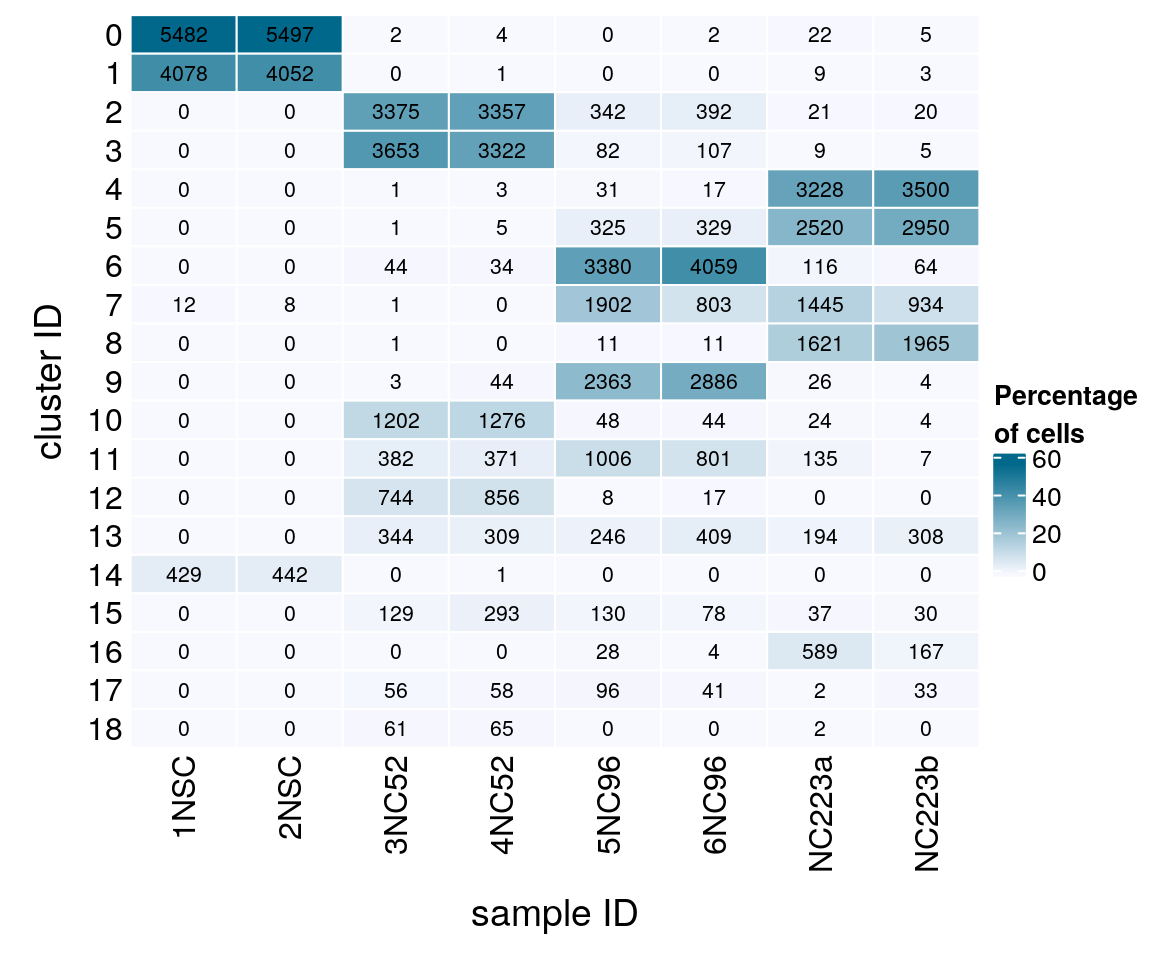
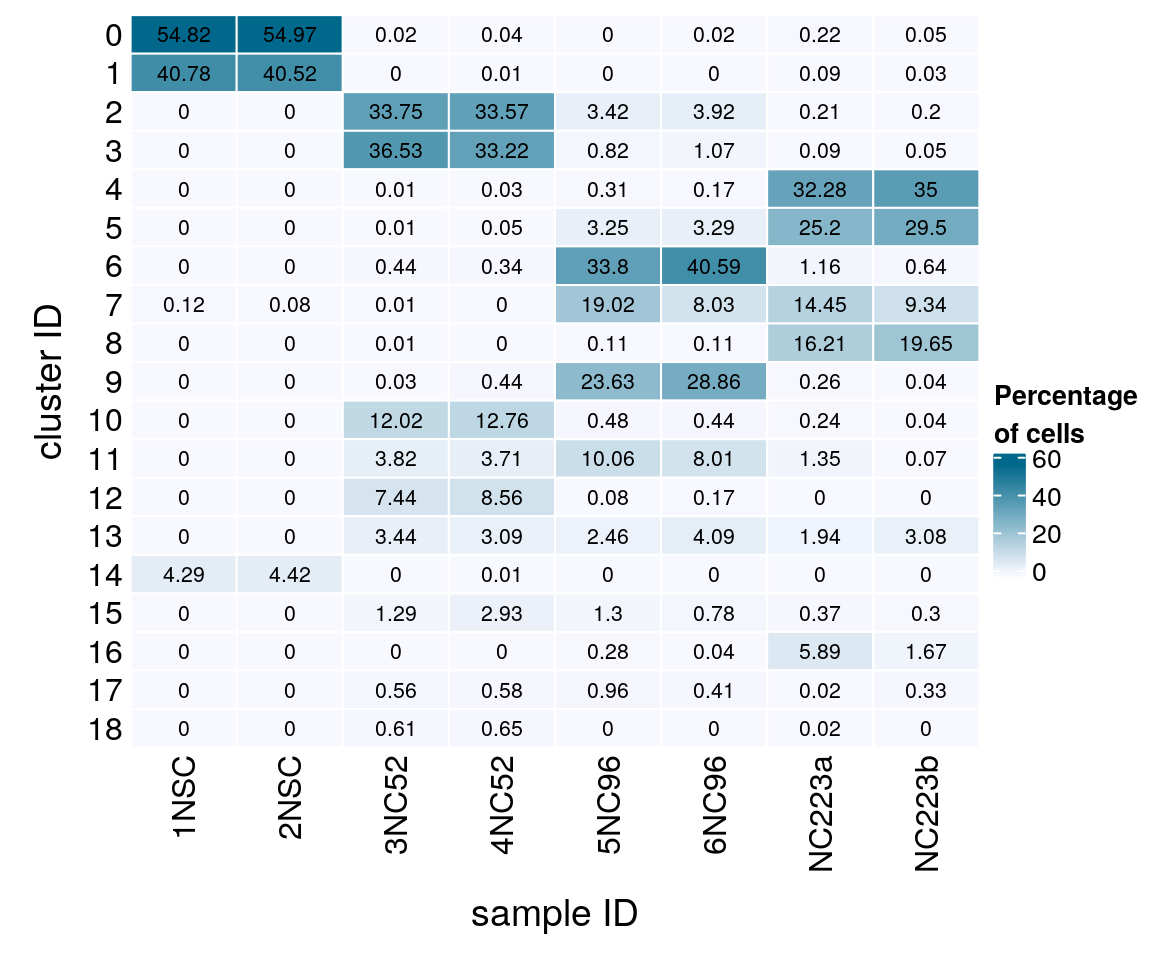
Build site.

diff --git a/docs/07-cluster-analysis-all-timepoints.html b/docs/07-cluster-analysis-all-timepoints.html
@@ -504,16 +504,16 @@ This reproducible <a href="http://rmarkdown.rstudio.com">R Markdown</a> analysis
 <div class="panel panel-default">
 <div class="panel-heading">
 <p class="panel-title">
-<a data-toggle="collapse" data-parent="#workflowr-checks" href="#strongRepositoryversionstrongahrefhttpsgithubcomkhembachneuralscRNAseqtree3c93c4e54e275e91eb92c77445deae7a80ebb553targetblank3c93c4ea"> <span class="glyphicon glyphicon-ok text-success" aria-hidden="true"></span> <strong>Repository version:</strong> <a href="https://github.com/khembach/neural_scRNAseq/tree/3c93c4e54e275e91eb92c77445deae7a80ebb553" target="_blank">3c93c4e</a> </a>
+<a data-toggle="collapse" data-parent="#workflowr-checks" href="#strongRepositoryversionstrongahrefhttpsgithubcomkhembachneuralscRNAseqtree000bc40ac2a53dc1f88a2e3cd525836c2a7a305dtargetblank000bc40a"> <span class="glyphicon glyphicon-ok text-success" aria-hidden="true"></span> <strong>Repository version:</strong> <a href="https://github.com/khembach/neural_scRNAseq/tree/000bc40ac2a53dc1f88a2e3cd525836c2a7a305d" target="_blank">000bc40</a> </a>
 </p>
 </div>
[2 lines of base64/hex data omitted]
 <div class="panel-body">
 <p>
 Great! You are using Git for version control. Tracking code development and connecting the code version to the results is critical for reproducibility.
 </p>
 <p>
-The results in this page were generated with repository version <a href="https://github.com/khembach/neural_scRNAseq/tree/3c93c4e54e275e91eb92c77445deae7a80ebb553" target="_blank">3c93c4e</a>. See the <em>Past versions</em> tab to see a history of the changes made to the R Markdown and HTML files.
+The results in this page were generated with repository version <a href="https://github.com/khembach/neural_scRNAseq/tree/000bc40ac2a53dc1f88a2e3cd525836c2a7a305d" target="_blank">000bc40</a>. See the <em>Past versions</em> tab to see a history of the changes made to the R Markdown and HTML files.
 </p>
 <p>
 Note that you need to be careful to ensure that all relevant files for the analysis have been committed to Git prior to generating the results (you can use <code>wflow_publish</code> or <code>wflow_git_commit</code>). workflowr only checks the R Markdown file, but you know if there are other scripts or data files that it depends on. Below is the status of the Git repository when the results were generated:
@@ -725,7 +725,6 @@ Ignored files:
     Ignored:    output/sce_TDP_03_filtering_all_genes.rds
     Ignored:    output/sce_organoid-01-clustering.rds
     Ignored:    output/sce_preprocessing.rds
-    Ignored:    output/so_04-group_integration.rds
     Ignored:    output/so_04-stage_integration.rds
     Ignored:    output/so_04_1_cell_cycle.rds
     Ignored:    output/so_04_clustering.rds
@@ -741,6 +740,7 @@ Ignored files:
     Ignored:    output/so_merged_organoid-02-integration.rds
     Ignored:    output/so_organoid-01-clustering.rds
     Ignored:    output/so_sample_organoid-01-clustering.rds
+    Ignored:    output/so_timepoints-01-organoid_integration.rds
     Ignored:    output/tbl_TDP-08-01-muscat.rds
     Ignored:    output/tbl_TDP-08-01-muscat_cluster_0.txt
     Ignored:    output/tbl_TDP-08-01-muscat_cluster_1.txt
@@ -788,6 +788,7 @@ Untracked files:
     Untracked:  analysis/organoid-08-conos-comparison.Rmd
     Untracked:  analysis/organoid-0x-sample_integration.Rmd
     Untracked:  analysis/sample5_QC.Rmd
+    Untracked:  analysis/timepoints-02-cluster-analysis.Rmd
     Untracked:  coverage.pdf
     Untracked:  coverage_sashimi.pdf
     Untracked:  coverage_sashimi.png
@@ -857,6 +858,40 @@ Message
 </tr>
 </thead>
 <tbody>
+<tr>
+<td>
+Rmd
+</td>
+<td>
+<a href="https://github.com/khembach/neural_scRNAseq/blob/000bc40ac2a53dc1f88a2e3cd525836c2a7a305d/analysis/07-cluster-analysis-all-timepoints.Rmd" target="_blank">000bc40</a>
+</td>
+<td>
+khembach
+</td>
+<td>
+2021-04-07
+</td>
+<td>
+fix heatmap
+</td>
+</tr>
+<tr>
+<td>
+html
+</td>
+<td>
+<a href="https://rawcdn.githack.com/khembach/neural_scRNAseq/119d6d986fefa9efe00323fffc267d6601c2e90d/docs/07-cluster-analysis-all-timepoints.html" target="_blank">119d6d9</a>
+</td>
+<td>
+khembach
+</td>
+<td>
+2021-04-07
+</td>
+<td>
+Build site.
+</td>
+</tr>
 <tr>
 <td>
 Rmd
@@ -1060,7 +1095,7 @@ Heatmap(mat,
     column_title_side = &quot;bottom&quot;,
     rect_gp = gpar(col = &quot;white&quot;),
     cell_fun = function(i, j, x, y, width, height, fill)
-        grid.text(round(mat[j, i] * 100, 2), x = x, y = y, 
+        grid.text(mat[j, i], x = x, y = y, 
             gp = gpar(col = &quot;black&quot;, fontsize = 8)))</code></pre>
 <p><img src="figure/07-cluster-analysis-all-timepoints.Rmd/unnamed-chunk-3-1.png" width="576" style="display: block; margin: auto;" /></p>
 <p>
@@ -2665,6 +2700,17 @@ Date
 </tr>
 </thead>
 <tbody>
+<tr>
+<td>
+<a href="https://github.com/khembach/neural_scRNAseq/blob/119d6d986fefa9efe00323fffc267d6601c2e90d/docs/figure/07-cluster-analysis-all-timepoints.Rmd/paper-figures-1.png" target="_blank">119d6d9</a>
+</td>
+<td>
+khembach
+</td>
+<td>
+2021-04-07
+</td>
+</tr>
 <tr>
 <td>
 <a href="https://github.com/khembach/neural_scRNAseq/blob/e7f56c52d47ab94b576be8a531dc40fc2d512382/docs/figure/07-cluster-analysis-all-timepoints.Rmd/paper-figures-1.png" target="_blank">e7f56c5</a>
